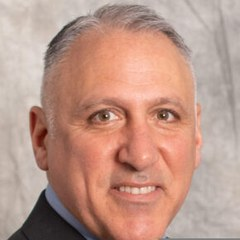
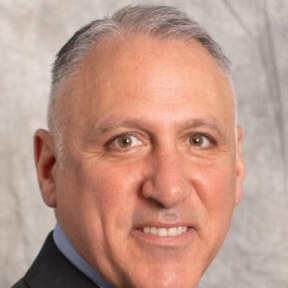
Footer photo: square with rounded corners, looser crop, larger
Claude-Session: https://claude.ai/code/session_01YSqJbsyosDLhibu4J1nX4u

diff --git a/public/index.html b/public/index.html
@@ -103,7 +103,7 @@
   footer p { max-width: 90ch; margin: 0 0 8px; }
   footer { display: grid; grid-template-columns: minmax(0, 1fr) auto; gap: 32px; align-items: end; }
   .contact { display: flex; gap: 16px; align-items: center; font-size: 0.875rem; color: var(--slate); font-style: normal; line-height: 1.45; }
-  .contact img { width: 80px; height: 80px; border-radius: 50%; object-fit: cover; flex: none; border: 2px solid var(--surface); box-shadow: 0 0 0 1px var(--rule); }
+  .contact img { width: 104px; height: 104px; border-radius: 8px; object-fit: cover; flex: none; box-shadow: 0 0 0 1px var(--rule); }
   .contact .who { font: 400 1.25rem/1.2 var(--serif); color: var(--ink); }
   .contact a { color: var(--ink); text-decoration: none; border-bottom: 1px solid var(--rule); }
   .contact a:hover { border-bottom-color: var(--ink); }
@@ -195,7 +195,7 @@
     <p>Market data from Tiingo and Twelve Data, may be delayed. Not investment advice. Review with compliance before sharing any output with clients or prospects.</p>
     </div>
     <address class="contact">
-      <img src="bill-ippolito.jpg" alt="Bill Ippolito" width="80" height="80" />
+      <img src="bill-ippolito.jpg?v=2" alt="Bill Ippolito" width="104" height="104" />
       <div>
         <div class="who">Bill Ippolito</div>
         Financial Advisor, Alexander Capital, L.P.<br />
